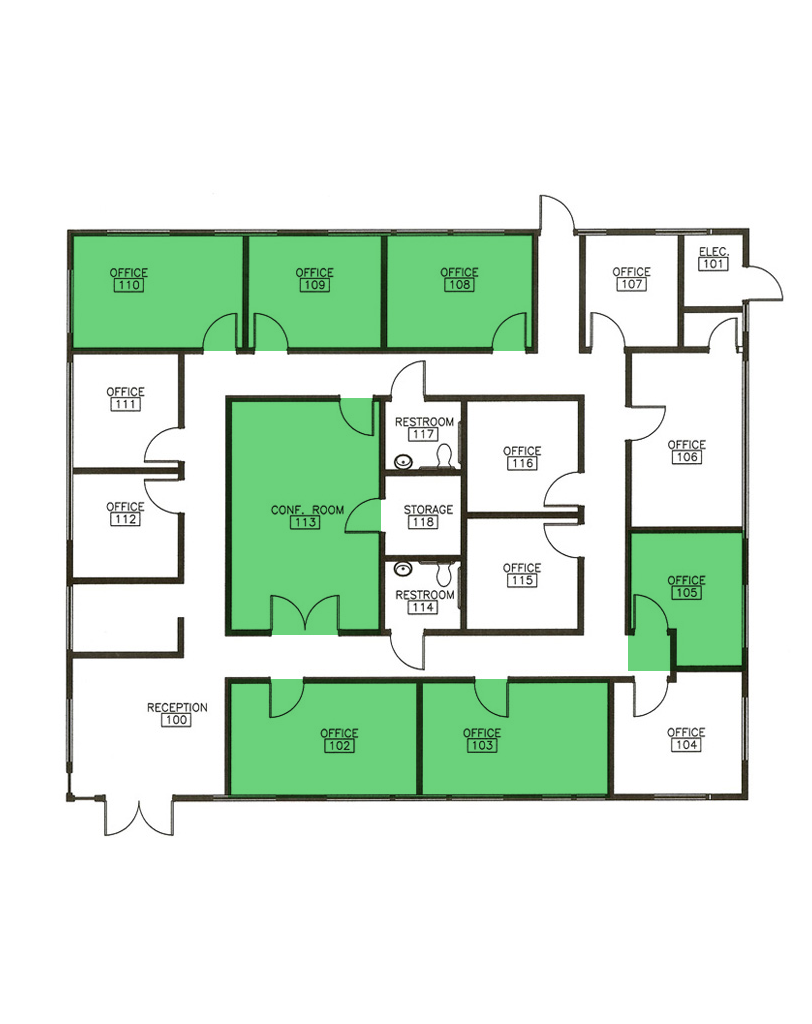
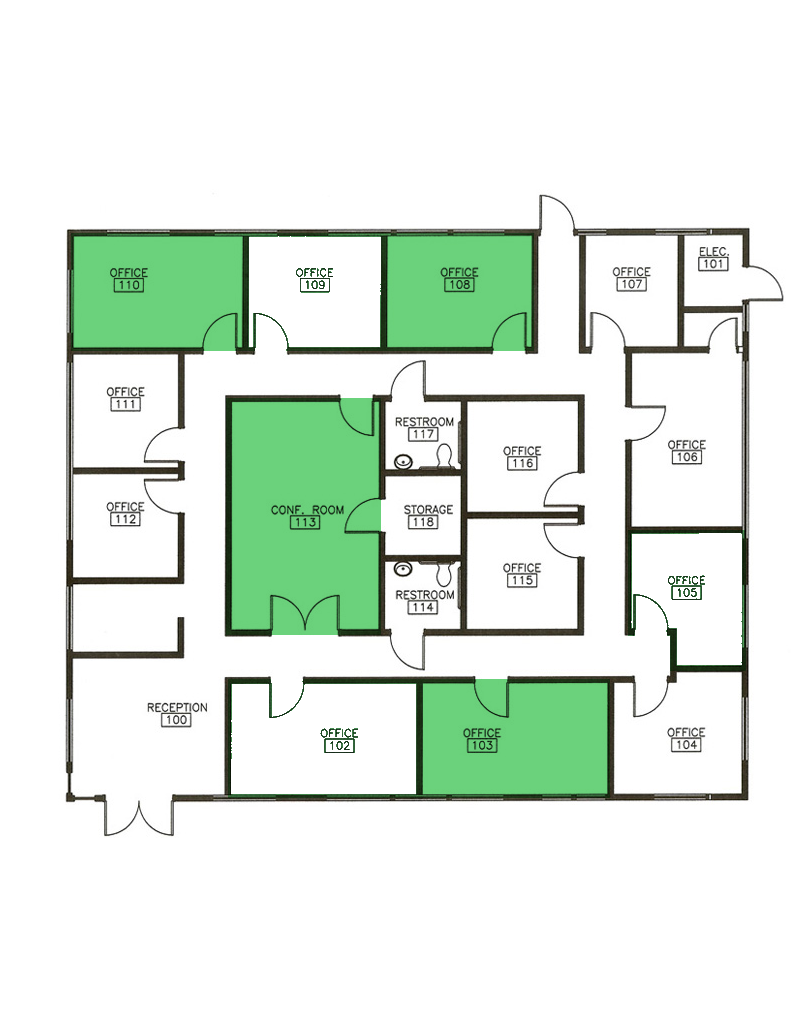
buttons made

Changed region(s): [[0.2771, 0.6562, 0.5234, 0.7812], [0.7697, 0.5, 0.9236, 0.6562], [0.3079, 0.2188, 0.4926, 0.3438]]

diff --git a/main.css b/main.css
@@ -185,11 +185,29 @@ a:visited {
     display: inline-block;
 }
 
+#building-selective-container{
+    background-image: url('building-inner-selective.png');
+    width: 812px;
+    height: 1024px;
+    display: inline-block;
+}
+
+#map-building-container {
+    background-image: url('building-inner.png');
+    width: 812px;
+    height: 1024px;
+    display: inline-block;
+}
+
 .map-invis-button {
     display: inline-block;
     vertical-align: top;
     position: relative;
     background: none;
+}
+.map-invis-button:hover{
+    cursor: hand;
+    cursor: pointer;
 }
 
 #map-class-button{
@@ -197,6 +215,48 @@ a:visited {
     height:126px;
     top:228px;
     left:66px;
+}
+
+#selective-110-button{
+    width:179px;
+    height:126px;
+    top:228px;
+    left:66px;
+}
+
+#r110-button{
+    width:179px;
+    height:126px;
+    top:228px;
+    left:66px;
+}
+
+#selective-113-button{
+    width:157px;
+    height:243px;
+    top:395px;
+    left:34px;
+}
+
+#r113-button{
+    width:157px;
+    height:243px;
+    top:396px;
+    left:45px;
+}
+
+#r108-button{
+    width:158px;
+    height:123px;
+    top:229px;
+    left:38px;
+}
+
+#r103-button{
+    width:190px;
+    height:123px;
+    top:675px;
+    left:-84px;
 }
 
 #map-compsci-button {
@@ -241,11 +301,7 @@ a:visited {
     left: 124px;
 }
 
-.map-building-container {
-    width: 100%;
-    height: 100%;
-    background-size: cover;
-}
+
 
 .submit-button {
     width: 100px;

diff --git a/building-inner.html b/building-inner.html
@@ -15,8 +15,11 @@
 </div>
 
 <div id="main-container" style="padding-top: 0;">
-  <div class="map-building-container" style="background-repeat: no-repeat; background-size: contain; background-image: url('building-inner.png');">
-
+  <div id="map-building-container">
+    <div id="r110-button" class="map-invis-button" onclick="toggleInfo('110');"></div>
+    <div id="r113-button" class="map-invis-button" onclick="toggleInfo('113');"></div>
+    <div id="r108-button" class="map-invis-button" onclick="toggleInfo('108');"></div>
+    <div id="r103-button" class="map-invis-button" onclick="toggleInfo('103');"></div>
   </div>
 </div>
 

diff --git a/building-inner-selective.html b/building-inner-selective.html
@@ -13,9 +13,10 @@
   <div id="nav-title">Building Interior</div>
 </div>
 
-<div id="main-container" style="padding-top: 0;">
-  <div class="map-building-container" style="background-repeat: no-repeat; background-size: contain; background-image: url('building-inner-selective.png');">
-
+<div id="main-container" style="padding-top: 0;overflow:scroll">
+  <div id="building-selective-container">
+    <div id="selective-110-button" class="map-invis-button" onclick="toggleInfo('110');"></div>
+    <div id="selective-113-button" class="map-invis-button" onclick="toggleInfo('113');"></div>
   </div>
 </div>
 

diff --git a/building-inner-class.html b/building-inner-class.html
@@ -15,7 +15,7 @@
 
 <div id="main-container" style="padding-top: 0;overflow:scroll">
   <div id="map-class-container">
-    <a href="class-info.html" id="map-class-button" class="map-invis-button"></a>
+    <div id="map-class-button" class="map-invis-button" onclick="toggleInfo('110');"></div>
   </div>
 </div>
 
